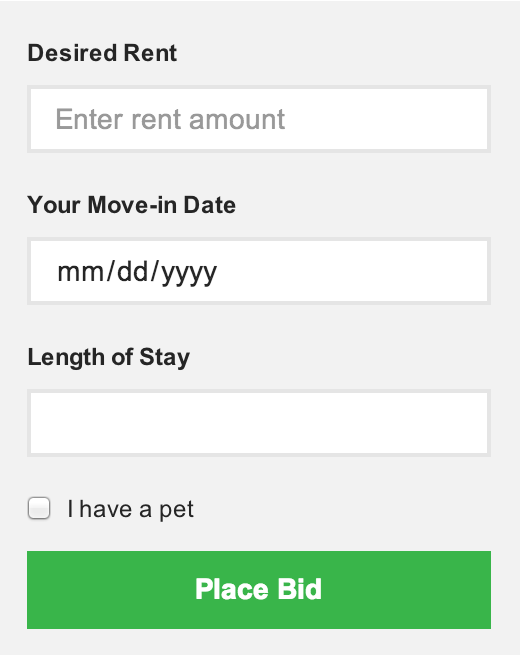
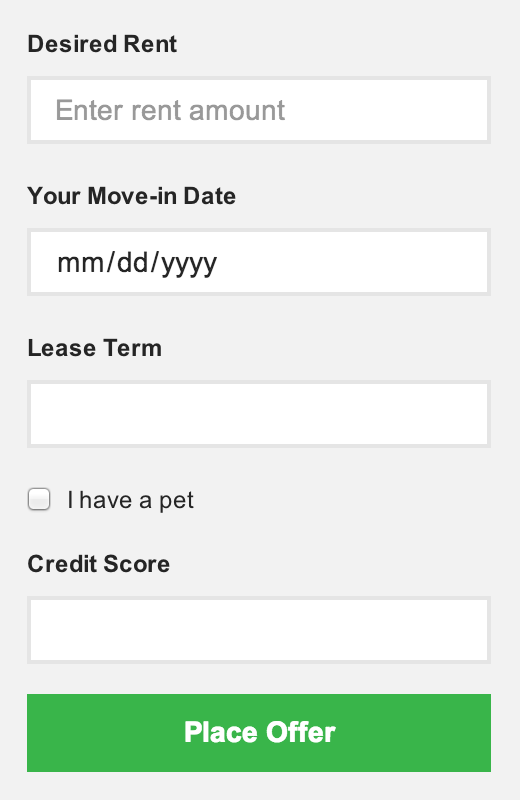
Updated new image for home page and "offer"

diff --git a/angular/src/app/partials/home.tpl.html b/angular/src/app/partials/home.tpl.html
@@ -169,7 +169,7 @@
                     </li>
                     <li>
                         <i class="fa fa-pencil-square-o "></i> Complete your application in-person or online
-                        after the bid is accepted.
+                        after your offer is accepted.
                     </li>
                     <li>
                         <i class="fa fa-suitcase"></i> Prepare to move.
